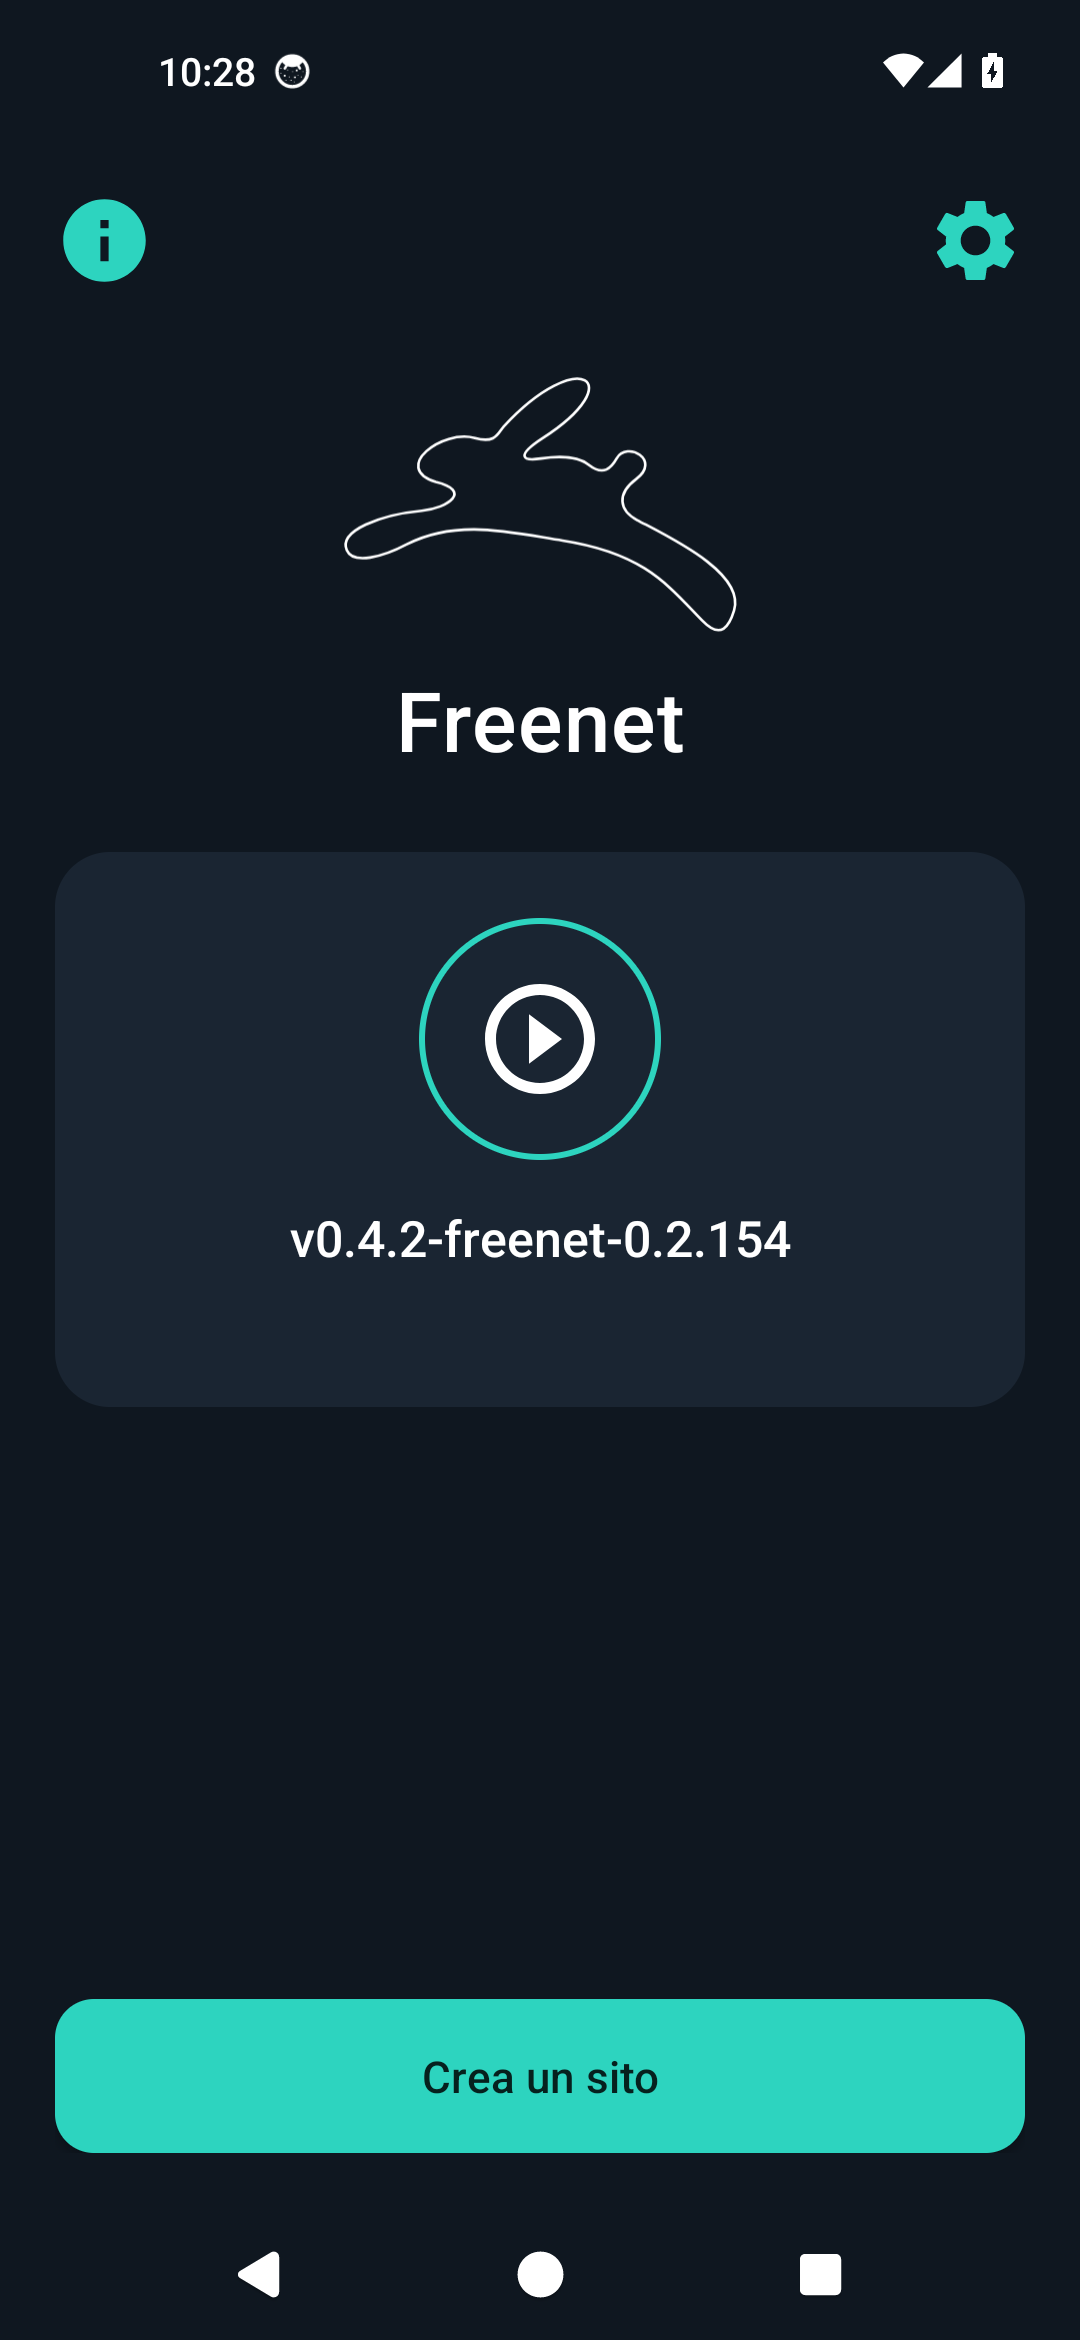
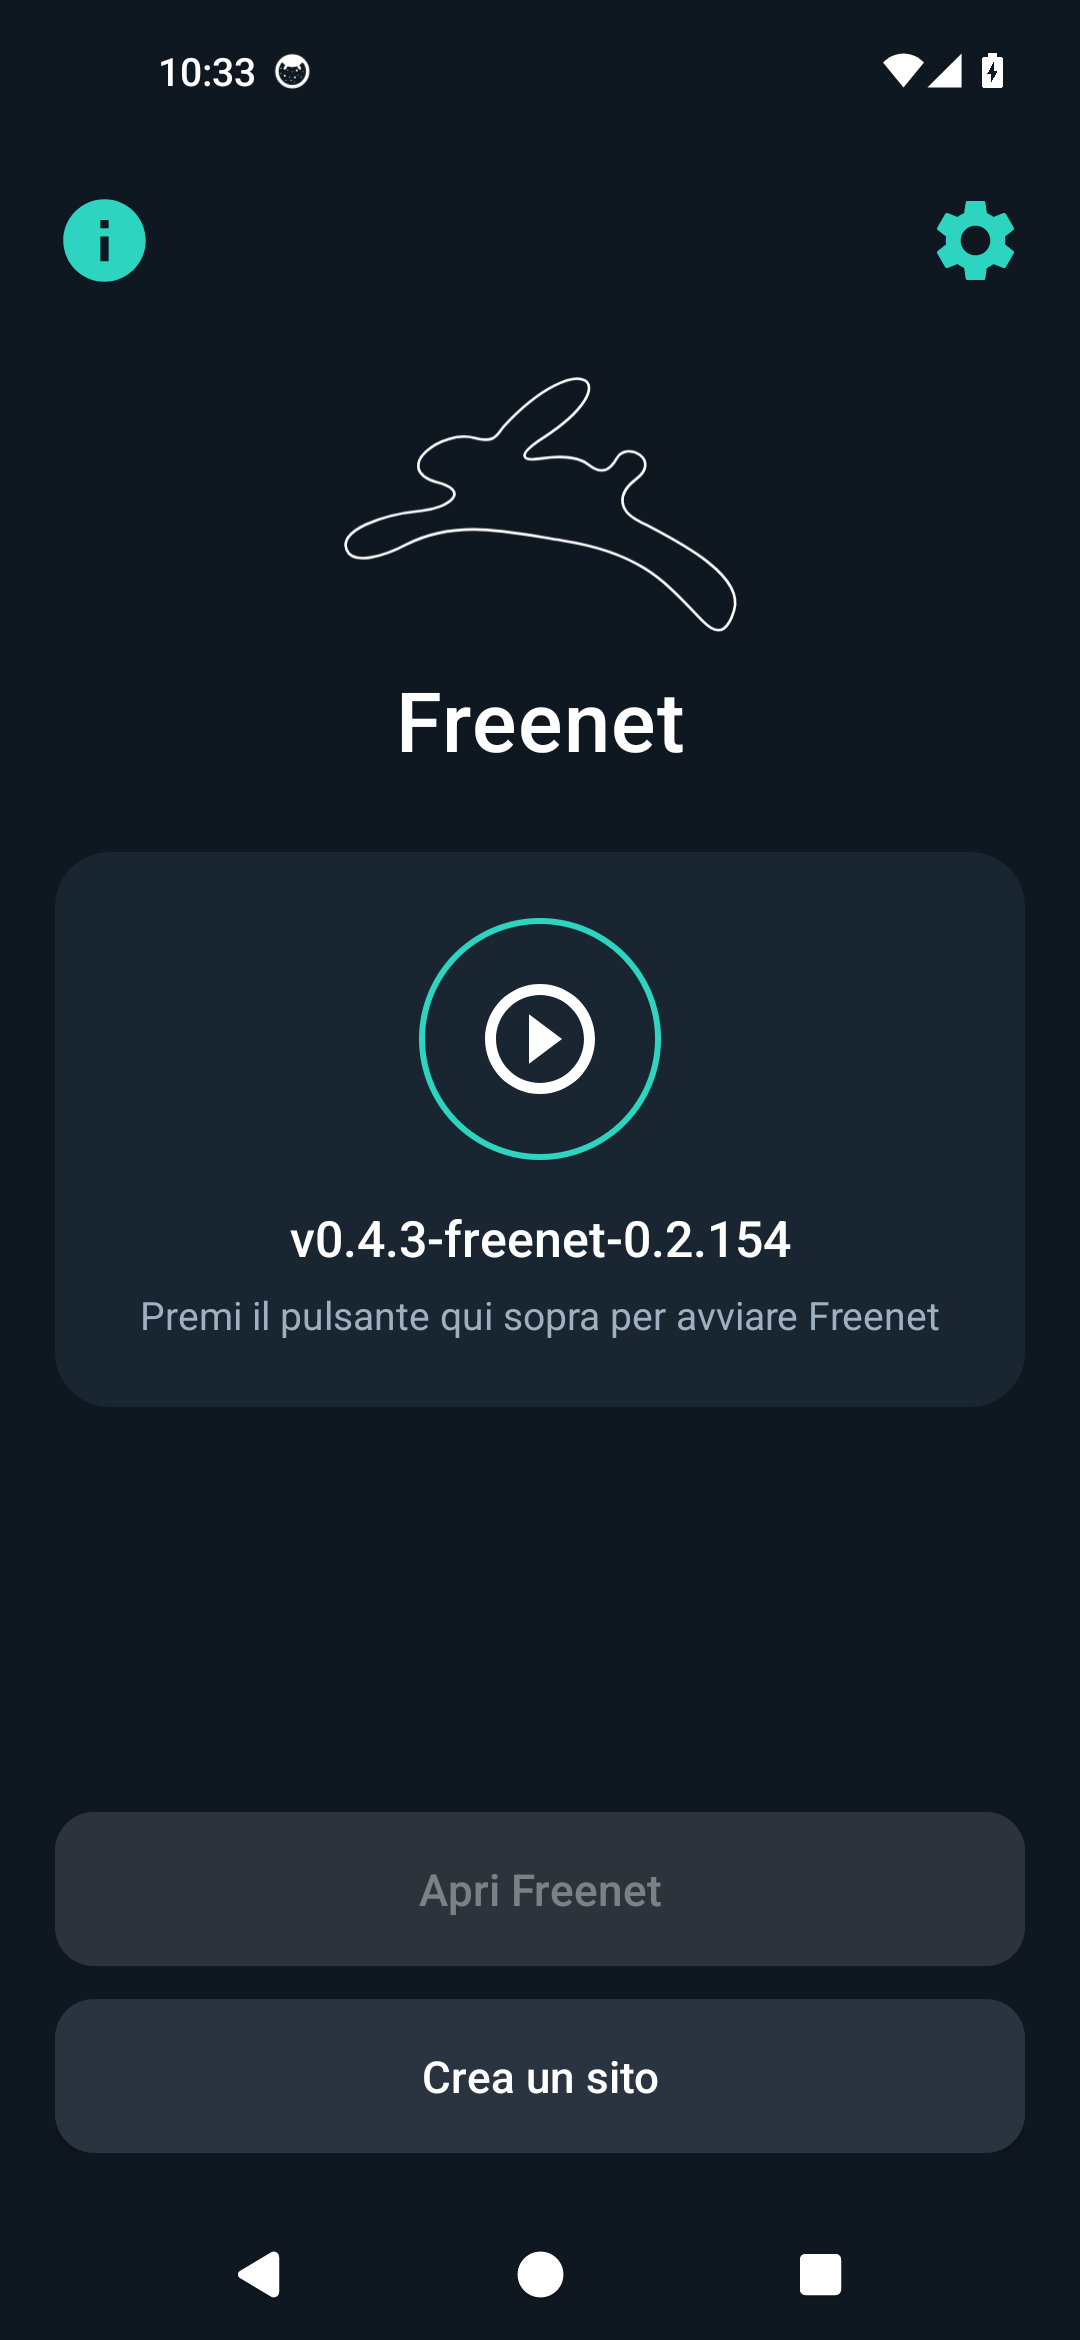
Versione 0.4.3: pulsante Apri Freenet e screenshot aggiornato

diff --git a/app/src/main/java/org/freenetproject/mobile/ui/main/activity/MainFragment.java b/app/src/main/java/org/freenetproject/mobile/ui/main/activity/MainFragment.java
@@ -83,6 +83,10 @@ public class MainFragment extends Fragment {
         updateSharedPreferences(manager, view);
         updateSettings(manager, view);
         updateAbout(manager, view);
+        Button web = view.findViewById(R.id.web_button);
+        web.setOnClickListener(v -> startActivity(new Intent(getContext(), BootstrapActivity.class)));
+        manager.getStatus().observe(getViewLifecycleOwner(), status ->
+                web.setEnabled(status.equals(Manager.Status.STARTED)));
         view.findViewById(R.id.sites_button).setOnClickListener(v ->
                 startActivity(new Intent(getActivity(), SitesActivity.class)));
         updateControls(manager, view);
@@ -156,6 +160,8 @@ public class MainFragment extends Fragment {
                 detailText.setText(reason.isEmpty()
                         ? getString(R.string.error_detail)
                         : getString(R.string.error_detail) + "\n" + reason);
+            } else if (status.equals(Manager.Status.STOPPED)) {
+                detailText.setText(R.string.press_to_start);
             } else {
                 detailText.setText("");
             }

diff --git a/SECURITY.md b/SECURITY.md
@@ -6,7 +6,7 @@ Questa è una versione di prova, non ufficiale, e non è prodotta da The Freenet
 
 | Versione       | Correzioni di sicurezza |
 | -------------- | ----------------------- |
-| 0.4.2          | Sì                      |
+| 0.4.3          | Sì                      |
 | Precedenti     | No                      |
 
 Conviene usare sempre l'ultima versione della pagina
